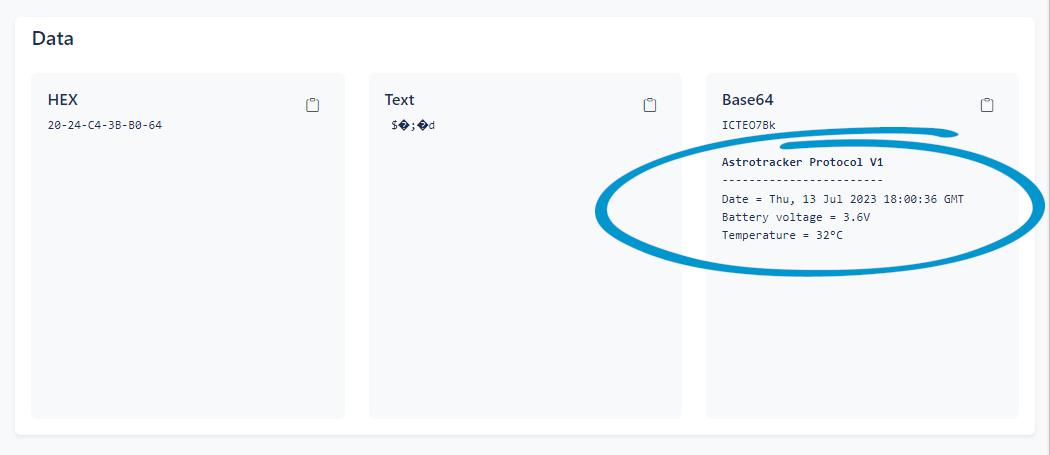
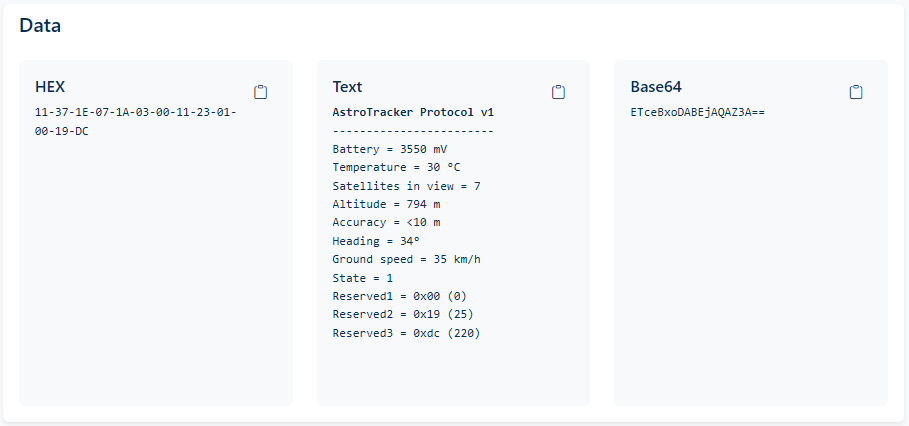
Add AstroTracker v1 protocol (#1)
* Add support for new AstroTracker v1 versioned protocol which adds altitude, accuracy, heading and ground speed and improved packing.
* Fixed hard-coded test data used instead of actual message.
* Now display decoded message in Text element.
Use interpolated strings to build HTML.
* Updated screenshots of README.md.
* Increment extension version to "0.2.

diff --git a/extension/decoder.js b/extension/decoder.js
@@ -3,7 +3,7 @@ function base64ToBase16(str) {
   const raw = window.atob(str);
   let result = "";
   let i = 0;
-  for (i = 0; i < raw.length; i+=1) {
+  for (i = 0; i < raw.length; i += 1) {
     const hex = raw.charCodeAt(i).toString(16);
     result += (hex.length === 2 ? hex : "0" + hex);
   }
@@ -16,51 +16,71 @@ const base64_element = document.getElementById("base64");
 // Decode base64 payload data
 const data_encoded = base64_element.innerText;
 const data_decoded = base64ToBase16(data_encoded);
+const bytes = [...window.atob(data_encoded)].map(c => c.charCodeAt(0));
 
-let temp = 0;
-let batt = 0;
-let date = 0;
-let slot = 0;
-let lat = 0;
-let lon = 0;
-let siv = 0;
-let gspeed = 0;
+let messageHtml = '';
 
-if ( data_decoded.length === 12 ) {
-  // Astrotracker Protocol V1
-  temp = Number.parseInt(data_decoded.slice(0, 2), 16);
-  batt = Number.parseInt(data_decoded.slice(2, 4), 16) / 10;
-  date = new Date(Number.parseInt(data_decoded.slice(4,12).match(/[a-fA-F0-9]{2}/g).reverse().join(""), 16)*1000).toUTCString();
+// AstroTracker v1 protocol - between 10 and 13 bytes - versioned 0x11
+if (bytes.length >= 10 && bytes.length <= 13 && bytes[0] == 0x11) {
+  let batt = (bytes[1] * 10) + 3000;
+  let temp = bytes[2] << 24 >> 24; // signed 8-bit
+  let siv = bytes[3];
+  let altitude = ((bytes[5] << 8) | bytes[4]) << 16 >>  16; // signed 16-bit little endian
+  let accuracy = (bytes[6] + 1) * 10;
+  let heading = bytes[7] * 2;
+  let gspeed = bytes[8];
 
   // Update DOM element's inner HTML with decoded data
-  base64_element.innerHTML += " \
-    <br /><br /><b>Astrotracker Protocol V1</b> \
-	<br />------------------------ \
-    <br />Date = " + date + " \
-    <br />Battery voltage = " + batt + "V \
-    <br />Temperature = " + temp + "°C";
+  messageHtml = "<b>AstroTracker Protocol v1</b>" +
+    "<br />------------------------" +
+    `<br />Battery = ${batt} mV` +
+    `<br />Temperature = ${temp} °C` +
+    `<br />Satellites in view = ${siv}` +
+    `<br />Altitude = ${altitude} m` +
+    `<br />Accuracy = <${accuracy} m` +
+    `<br />Heading = ${heading}°` +
+    `<br />Ground speed = ${gspeed} km/h` +
+    `<br />State = ${bytes[9]}`
+  // Raw value of optional reserved bytes
+  for (i = 10; i < bytes.length; i++)
+    messageHtml += `<br />Reserved${i - 9} = ${'0x' + bytes[i].toString(16).padStart(2, '0')} (${bytes[i]})`;
 
-} else if ( data_decoded.length === 40 ) {
-  // AstroTracker protocol V2 - LOGGER_TAG_PVT_SLOT
-  slot = Number.parseInt(data_decoded.slice(0, 2), 16);
-  date = new Date(Number.parseInt(data_decoded.slice(2,10).match(/[a-fA-F0-9]{2}/g).reverse().join(""), 16)*1000).toUTCString();
-  lat = Number.parseInt(data_decoded.slice(10,18).match(/[a-fA-F0-9]{2}/g).reverse().join(""), 16) * 1e-07;
-  lon = Number.parseInt(data_decoded.slice(18,26).match(/[a-fA-F0-9]{2}/g).reverse().join(""), 16) * 1e-07;
-  siv = Number.parseInt(data_decoded.slice(26, 28), 16);
-  gspeed = Number.parseInt(data_decoded.slice(28,36).match(/[a-fA-F0-9]{2}/g).reverse().join(""), 16);
-  batt = Number.parseInt(data_decoded.slice(36, 38), 16) / 10;
-  temp = Number.parseInt(data_decoded.slice(38, 40), 16);
+// AstroTracker Protocol v0.1 - 6 bytes
+} else if (data_decoded.length === 12) {
+  let temp = Number.parseInt(data_decoded.slice(0, 2), 16);
+  let batt = Number.parseInt(data_decoded.slice(2, 4), 16) / 10;
+  let date = new Date(Number.parseInt(data_decoded.slice(4, 12).match(/[a-fA-F0-9]{2}/g).reverse().join(""), 16) * 1000).toISOString();
+
+  messageHtml = "<b>AstroTracker Protocol v0.1</b>" +
+    "<br />--------------------------" +
+    `<br />Date = ${date}` +
+    `<br />Battery = ${batt} V` +
+    `<br />Temperature = ${temp} °C`;
+
+// AstroTracker protocol v0.2 - 20 bytes LOGGER_TAG_PVT_SLOT
+} else if (data_decoded.length === 40) {
+  let slot = Number.parseInt(data_decoded.slice(0, 2), 16);
+  let date = new Date(Number.parseInt(data_decoded.slice(2, 10).match(/[a-fA-F0-9]{2}/g).reverse().join(""), 16) * 1000).toISOString();
+  let lat = Number.parseInt(data_decoded.slice(10, 18).match(/[a-fA-F0-9]{2}/g).reverse().join(""), 16) * 1e-07;
+  let lon = Number.parseInt(data_decoded.slice(18, 26).match(/[a-fA-F0-9]{2}/g).reverse().join(""), 16) * 1e-07;
+  let siv = Number.parseInt(data_decoded.slice(26, 28), 16);
+  let gspeed = Number.parseInt(data_decoded.slice(28, 36).match(/[a-fA-F0-9]{2}/g).reverse().join(""), 16);
+  let batt = Number.parseInt(data_decoded.slice(36, 38), 16) / 10;
+  let temp = Number.parseInt(data_decoded.slice(38, 40), 16);
 
   // Update DOM element's inner HTML with decoded data
-  base64_element.innerHTML += " \
-    <br /><br /><b>Astrotracker Protocol V2</b> \
-	<br />------------------------ \
-    <br />Slot tag = " + slot + " \
-    <br />Date = " + date + " \
-    <br />Latitude = " + lat + " \
-    <br />Longitude = " + lon + " \
-    <br />Satellites in view = " + siv + " \
-    <br />Ground speed = " + gspeed + "km/h \
-    <br />Battery voltage = " + batt + "V \
-    <br />Temperature = " + temp + "°C";
+  messageHtml = "<b>AstroTracker Protocol v0.2</b>" +
+    "<br />--------------------------" +
+    `<br />Slot tag = ${slot}` +
+    `<br />Date = ${date}` +
+    `<br />Latitude = ${lat}` +
+    `<br />Longitude = ${lon}` +
+    `<br />Satellites in view = ${siv}` +
+    `<br />Ground speed = ${gspeed} km/h` +
+    `<br />Battery = ${batt} V` +
+    `<br />Temperature = ${temp} °C`;
 }
+
+// Replace "Text" element's inner HTML with decoded data
+if (messageHtml)
+  document.getElementById("text").innerHTML = messageHtml;

diff --git a/README.md b/README.md
@@ -1,5 +1,5 @@
 # astrotracker-decoder-chrome-extension
-This is a browser extension to decode payload sent by Astrotracker devices into Astrocast portal.
+This is a browser extension to decode payload sent by AstroTracker devices into Astrocast portal.
 
 ## Installation
 1. Clone this repository.
@@ -13,23 +13,31 @@ This is a browser extension to decode payload sent by Astrotracker devices into 
 2. Open `Add-ons debugging tool` at `about:debugging#/runtime/this-firefox`.
 3. Click `Load Temporary Add-on` and select `manifest.json` file in the extension folder of the cloned repository.
 4. Open `Add-on manager` at `about:addons`.
-5. Give permissions to AstrotrackerDecoder extension to access your data for sites in the *://portal.astrocast.com domain.
+5. Give permissions to AstroTrackerDecoder extension to access your data for sites in the *://portal.astrocast.com domain.
 
 ## Usage
 - The extension will automatically decode Base64 data in Astrocast portal (https://portal.astrocast.com/Message/Details/*).
-- The extension will try to decode any payload which is either 6 or 20 bytes long, even if it isn't an Astrotracker device.
+- The extension will try to decode any payload which is either 6 or 20 bytes long, even if it isn't an AstroTracker device.
 
 ## Current decoded protocols
 
-### Astrotracker Protocol V1 (6 bytes)
+### AstroTracker Protocol v1 (>=10 bytes)
 
-|Byte offset|Type|Length (Bytes)|Name|Description|
-|---|---|---|---|---|
-|0|int8|1|Temperature|Temperature of the tracker in deg C (1 deg resolution)|
-|1|uint8|1|V Bat|Voltage of the battery in the tracker (multiplied by 10)|
-|2|uint32|4|Timestamp|Epoch of the measurement in UNIX time|
+|Byte offset|Type|Length (Bytes)|Name|Description|Unit|Min|Max|
+|-|-----|-|-----------|---------------------------------|----|--|--|
+|0|uint8|1|Type       |Type of message                  |    |=0x11|
+|1|uint8|1|Battery    |Battery voltage                  |mV  |3000  |5550 |
+|2|int8 |1|Temperature|Temperature                      |°C  |-128  |127  |
+|3|uint8|1|SIV        |Number of GNSS satellites in view|    |0     |255  |
+|4|int16|2|Altitude   |Height above mean sea level      |m   |-32768|32767|
+|6|uint8|1|Accuracy   |Accuracy range of the geolocation|m   |<10   |>2550|
+|7|uint8|1|Heading    |Heading of motion                |°   |0     |358  |
+|8|uint8|1|Speed      |Ground speed                     |km/h|0     |255  |
+|9|uint8|1|Switch     |State of status switch           |    |0     |1    |
 
-### Astrotracker Protocol V2 (20 bytes)
+![AstroTracker Protocol v1](screenshots/screenshot_v1.png)
+
+### Legacy AstroTracker Protocol v0.2 (20 bytes)
 
 |Byte offset|Type|Length (Bytes)|Name|Description|
 |---|---|---|---|---|
@@ -42,10 +50,14 @@ This is a browser extension to decode payload sent by Astrotracker devices into 
 |18|uint8|1|V Bat|Voltage of the battery in the tracker (multiplied by 10)|
 |19|int8|1|Temperature|Temperature of the tracker in deg C (1 deg resolution)|
 
-## Screenshots
+![AstroTracker Protocol v0.2](screenshots/screenshot_v0.2.png)
 
-### Astrotracker Protocol V1 (6 bytes)
-![Astrotracker Protocol V1](screenshots/screenshot_v1.png)
+### Legacy AstroTracker Protocol v0.1 (6 bytes)
 
-### Astrotracker Protocol V2 (20 bytes)
-![Astrotracker Protocol V2](screenshots/screenshot_v2.png)
+|Byte offset|Type|Length (Bytes)|Name|Description|
+|---|---|---|---|---|
+|0|int8|1|Temperature|Temperature of the tracker in deg C (1 deg resolution)|
+|1|uint8|1|V Bat|Voltage of the battery in the tracker (multiplied by 10)|
+|2|uint32|4|Timestamp|Epoch of the measurement in UNIX time|
+
+![AstroTracker Protocol v0.1](screenshots/screenshot_v0.1.png)
